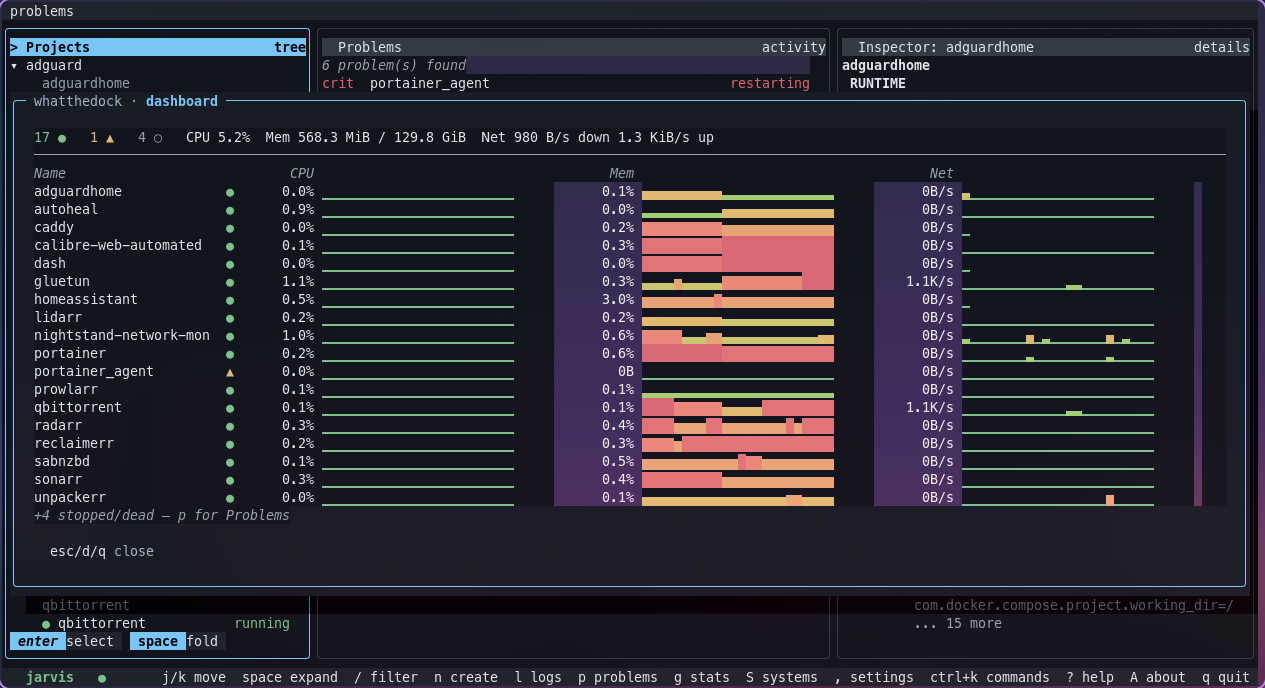
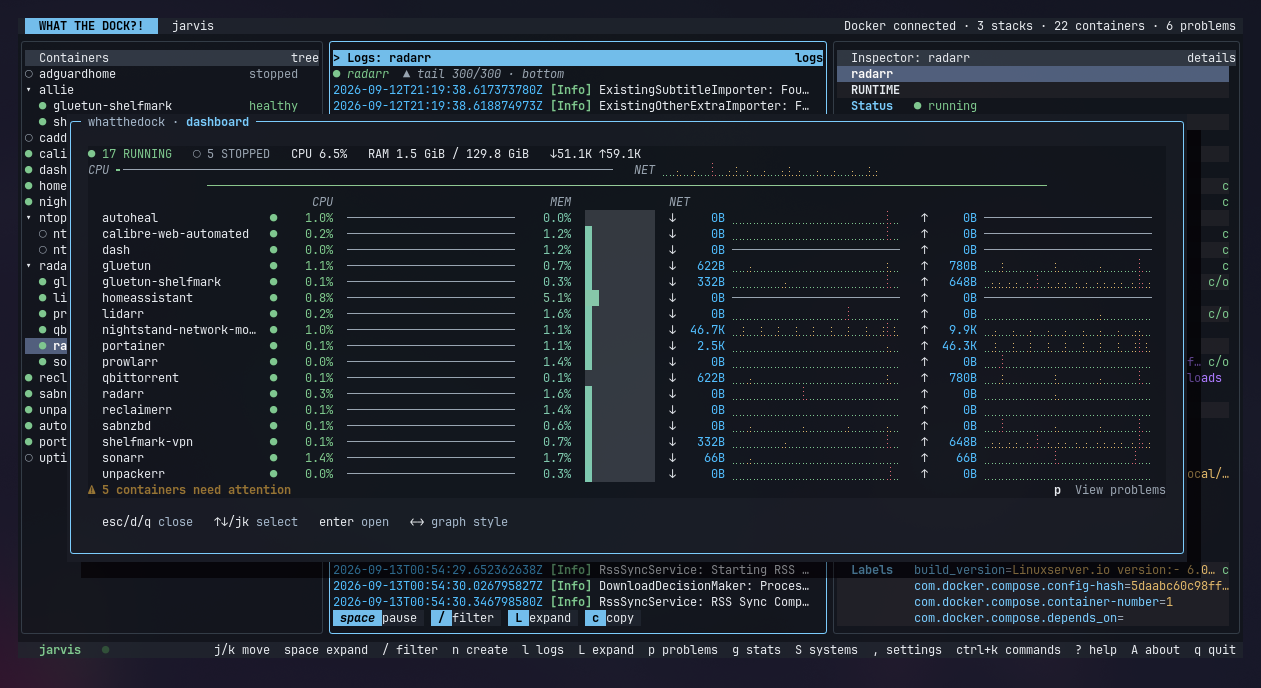
About: repaint the swimmer's water row across the whole stage
The swim epilogue only recolored water from aboutSwimStartColumn onward,
leaving a visible seam at the left edge of the settled middle row. Paint
the brighter aboutSwimWater tone across the full stage so both sides stay
continuous; refresh dashboard and logs screenshots.

diff --git a/internal/ui/about_ship.go b/internal/ui/about_ship.go
@@ -345,11 +345,10 @@ func aboutShipFinalFrameStart() int {
 // terminal prototype: a cycling arm-stroke glyph (aboutSwimArmGlyphs,
 // indexed by swimmerCol so the stroke advances in lockstep with movement)
 // trailing behind a head ('o') and a leading ">" marker — in that
-// left-to-right order, matching the direction of travel. The water from
-// aboutSwimStartColumn onward is repainted to the swim epilogue's own
-// brighter palette (aboutSwimWater) the whole time this function is active,
-// distinct from the darker storm-aftermath tone the settled-ocean frame
-// otherwise leaves there.
+// left-to-right order, matching the direction of travel. The settled middle
+// water row is repainted to the swim epilogue's own brighter palette
+// (aboutSwimWater) across the whole stage while this function is active, so
+// its left and right sides remain visually continuous.
 func overlayAboutSwimmerCells(cells []aboutCell, stageStart, stageWidth, elapsed int, text string) []aboutCell {
 	swimStart := aboutShipFinalFrameStart() + aboutSwimStartDelay
 	if elapsed < swimStart {
@@ -366,7 +365,7 @@ func overlayAboutSwimmerCells(cells []aboutCell, stageStart, stageWidth, elapsed
 	}
 	onStage := swimmerCol < stageWidth
 
-	for i := aboutSwimStartColumn; i < stageWidth; i++ {
+	for i := 0; i < stageWidth; i++ {
 		if pos := stageStart + i; pos >= 0 && pos < len(cells) {
 			cells[pos] = aboutCell{r: '~', color: aboutSwimWater}
 		}
